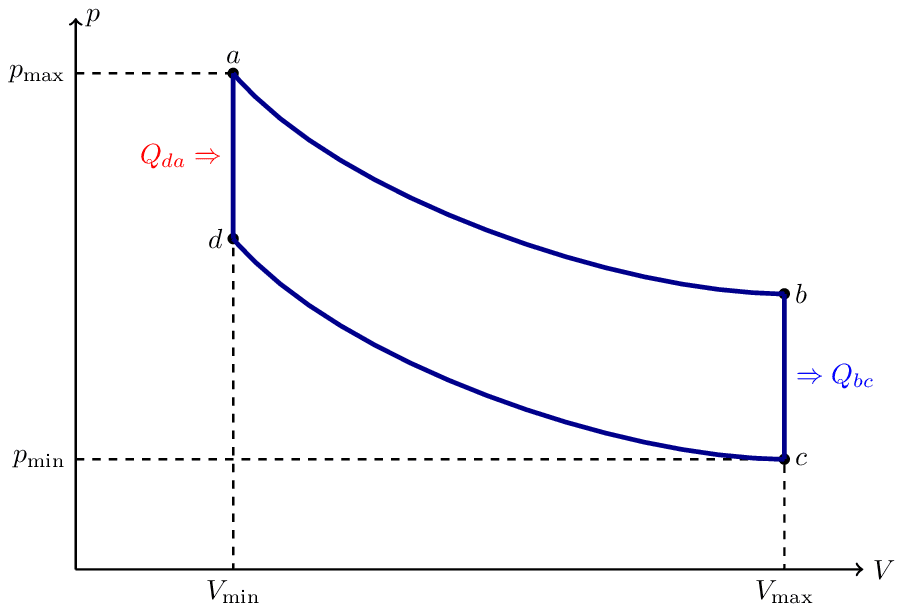
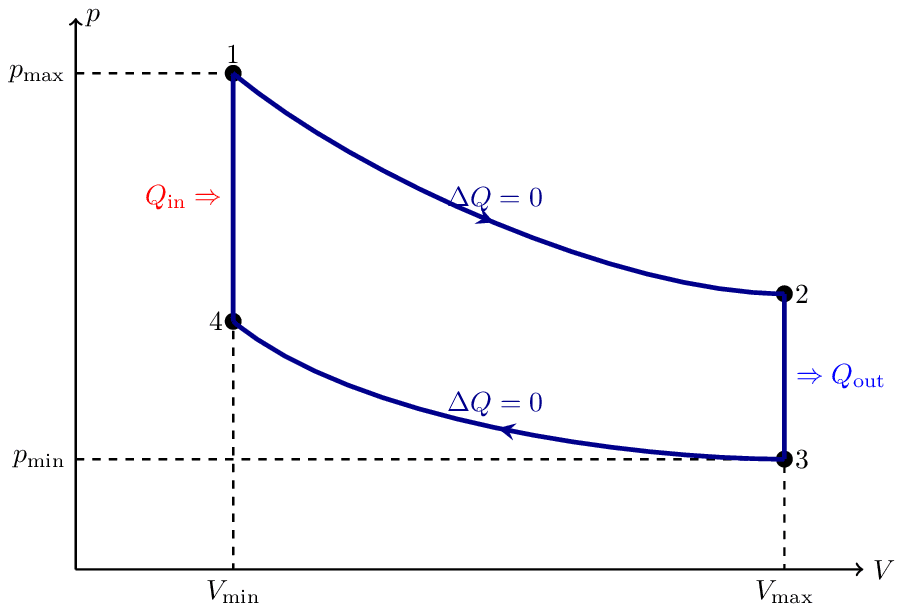
Update `otto-cycle.tex` (#11)
* update assets/otto-cycle/otto-cycle.tex

* move github corner and global css to __layout.svelte

* white space change to trigger CI

* assets for assets/otto-cycle/otto-cycle.tex

diff --git a/site/src/routes/[slug].svelte b/site/src/routes/[slug].svelte
@@ -20,11 +20,13 @@
   $: overleaf_href = `https://overleaf.com/docs?snip_uri=${snip_uri}`
 </script>
 
-<a href="/" class="back" sveltekit:prefetch>&laquo; back</a>
+<a href="/" sveltekit:prefetch>&laquo; back</a>
 <h1>{title}</h1>
+
 {#if desc}
   <p>{@html desc}</p>
 {/if}
+
 <img src="/assets/{slug}/{slug}-hd.png" alt={title} {width} {height} />
 
 <h2><LinkExternal height="1em" style="vertical-align: middle;" />&nbsp; Edit</h2>
@@ -47,6 +49,9 @@
 <Prism {code} title="{slug}.tex" {link} />
 
 <style>
+  h1 {
+    font-size: 3em;
+  }
   :where(h1, h2) {
     border-bottom: 2px solid orange;
     max-width: 10em;
@@ -58,7 +63,6 @@
     margin: 1em auto;
     padding: 1em;
     line-height: 3ex;
-    text-align: justify;
   }
   img[width] {
     width: 100%;
@@ -72,22 +76,21 @@
     display: block;
   }
   a {
-    background: rgba(255, 255, 255, 0.2);
+    background: rgba(255, 255, 255, 0.1);
     padding: 4pt 1ex;
     border-radius: 4pt;
     margin: 2pt;
     transition: color 0.3s, background-color 0.3s;
+    font-size: 16pt;
   }
   a:hover {
-    background: rgba(255, 255, 255, 0.4);
+    background: rgba(255, 255, 255, 0.2);
   }
   a[target='_blank'] {
-    font-size: 3ex;
     display: inline-flex;
     place-items: center;
   }
-  a.back {
-    font-size: 3ex;
+  a[href='/'] {
     position: absolute;
     top: 2em;
     left: 2em;

diff --git a/site/src/routes/index.svelte b/site/src/routes/index.svelte
@@ -2,7 +2,6 @@
   import { prerendering } from '$app/env'
   import Law from '@svicons/octicons/law.svelte'
   import MarkGithub from '@svicons/octicons/mark-github.svelte'
-  import GitHubCorner from 'svelte-github-corner'
   import Card from '../components/Card.svelte'
   import texFiles from '../texFiles'
 
@@ -19,12 +18,6 @@
 </script>
 
 <svelte:window bind:innerWidth />
-
-<GitHubCorner
-  href="https://github.com/janosh/tikz"
-  --ghc-bg="white"
-  --ghc-color="var(--body-bg)"
-/>
 
 <h1>Random Tikz Collection</h1>
 <p>

diff --git a/site/src/routes/__layout.svelte b/site/src/routes/__layout.svelte
@@ -1,6 +1,14 @@
 <script lang="ts">
   import LawIcon from '@svicons/octicons/law.svelte'
+  import '../app.css'
+  import GitHubCorner from 'svelte-github-corner'
 </script>
+
+<GitHubCorner
+  href="https://github.com/janosh/tikz"
+  --ghc-bg="white"
+  --ghc-color="var(--body-bg)"
+/>
 
 <slot />
 

diff --git a/site/src/app.html b/site/src/app.html
@@ -30,7 +30,6 @@
     <meta property="og:url" content="https://tikz.netlify.app" />
     <meta name="twitter:card" content="summary" />
 
-    <link rel="stylesheet" href="/global.css" />
     <link rel="icon" href="/favicon.svg" />
 
     <!-- see netlify.toml for this script's origin -->

diff --git a/assets/otto-cycle/otto-cycle.tex b/assets/otto-cycle/otto-cycle.tex
@@ -1,28 +1,38 @@
-\documentclass[tikz,svgnames]{standalone}
+% The Otto cycle is an idealized thermodynamic cycle of a typical spark ignition piston engine. It is the thermodynamic cycle most commonly found in automobile engines.
+
+\documentclass[tikz, svgnames]{standalone}
 
 \usepackage{mathtools}
+\usetikzlibrary{decorations.markings}
 
 \def\V{10}
 \def\p{7}
 
+\tikzset{decoration={markings, mark=at position 0.5 with {\arrow{stealth}}}}
+
 \begin{document}
 \begin{tikzpicture}[thick]
-  \draw[->] (0,0) -- (0,\p) node[right] {$p$};
-  \draw[->] (0,0) -- (\V,0) node[right] {$V$};
+  \draw[->] (0, 0) -- (0, \p) node[right] {$p$};
+  \draw[->] (0, 0) -- (\V, 0) node[right] {$V$};
 
-  \draw[dashed] (0,0.9*\p) node[left] {$p_\text{max}$} -| (0.2*\V,0) node[below] {$V_\text{min}$};
+  \draw[dashed] (0, 0.9*\p) node[left] {$p_\text{max}$} -| (0.2*\V, 0) node[below] {$V_\text{min}$};
 
-  \draw[dashed] (0,0.2*\p) node[left] {$p_\text{min}$} -| (0.9*\V,0) node[below] {$V_\text{max}$};
+  \draw[dashed] (0, 0.2*\p) node[left] {$p_\text{min}$} -| (0.9*\V, 0) node[below] {$V_\text{max}$};
 
-  \coordinate[label=above:$a$] (a) at (0.2*\V,0.9*\p);
-  \coordinate[label=right:$b$] (b) at (0.9*\V,0.5*\p);
-  \coordinate[label=right:$c$] (c) at (0.9*\V,0.2*\p);
-  \coordinate[label=left:$d$] (d) at (0.2*\V,0.6*\p);
+  \coordinate[label=above:1] (a) at (0.2*\V, 0.9*\p);
+  \coordinate[label=right:2] (b) at (0.9*\V, 0.5*\p);
+  \coordinate[label=right:3] (c) at (0.9*\V, 0.2*\p);
+  \coordinate[label=left:4] (d) at (0.2*\V, 0.45*\p);
 
-  \foreach \point in {a,b,c,d}
-  \fill (\point) circle (2pt);
+  \foreach \point in {a, b, c, d}
+  \fill (\point) circle (3pt);
 
-  \draw[ultra thick,DarkBlue] (a) edge[out=-50,in=180,looseness=0.7] (b) (b) -- (c) node[midway,right,blue] {$\Rightarrow Q_{bc}$} (c) edge[out=180,in=-50,looseness=0.7] (d) (d) -- (a) node[midway,left,red] {$Q_{da} \Rightarrow$};
+  \draw[ultra thick, DarkBlue] (a) edge[out=-40, in=180, looseness=0.7, postaction={decorate}]
+  node[midway, above=2px] {$\Delta Q = 0$} (b) (b) -- (c)
+  node[midway, right, blue] {$\Rightarrow Q_\text{out}$} (c)
+  edge[out=180, in=-40, looseness=0.7, postaction={decorate}]
+  node[midway, above=2px] {$\Delta Q = 0$} (d) (d) -- (a)
+  node[midway, left, red] {$Q_\text{in} \Rightarrow$};
 
 \end{tikzpicture}
 \end{document}
